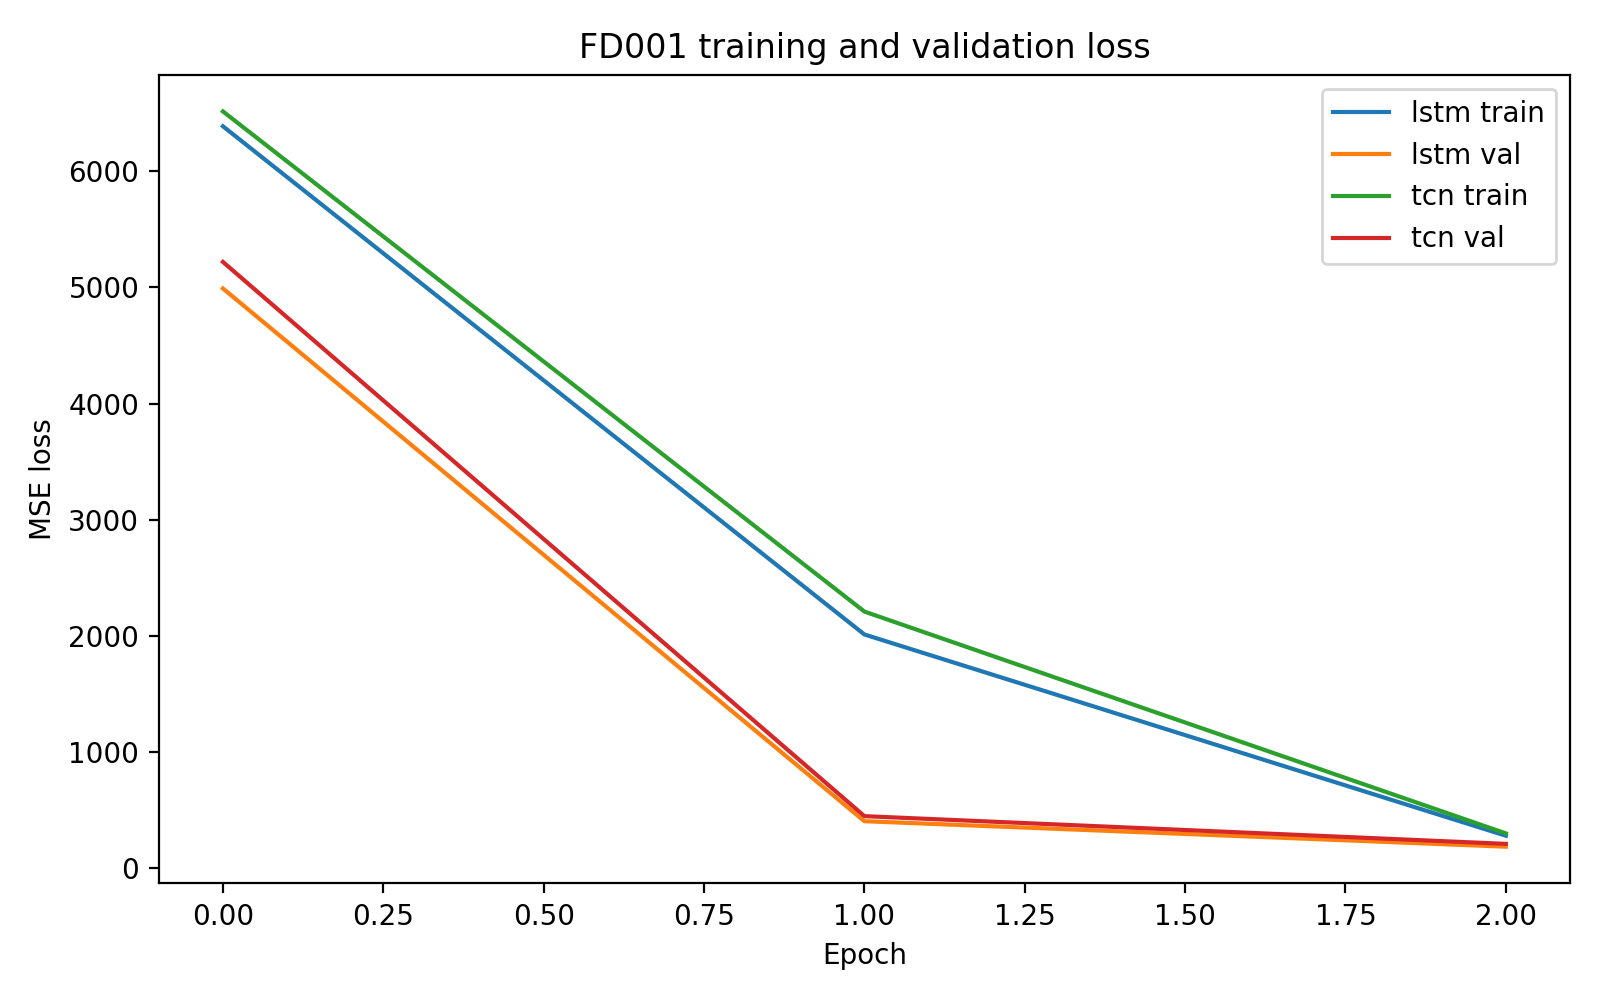
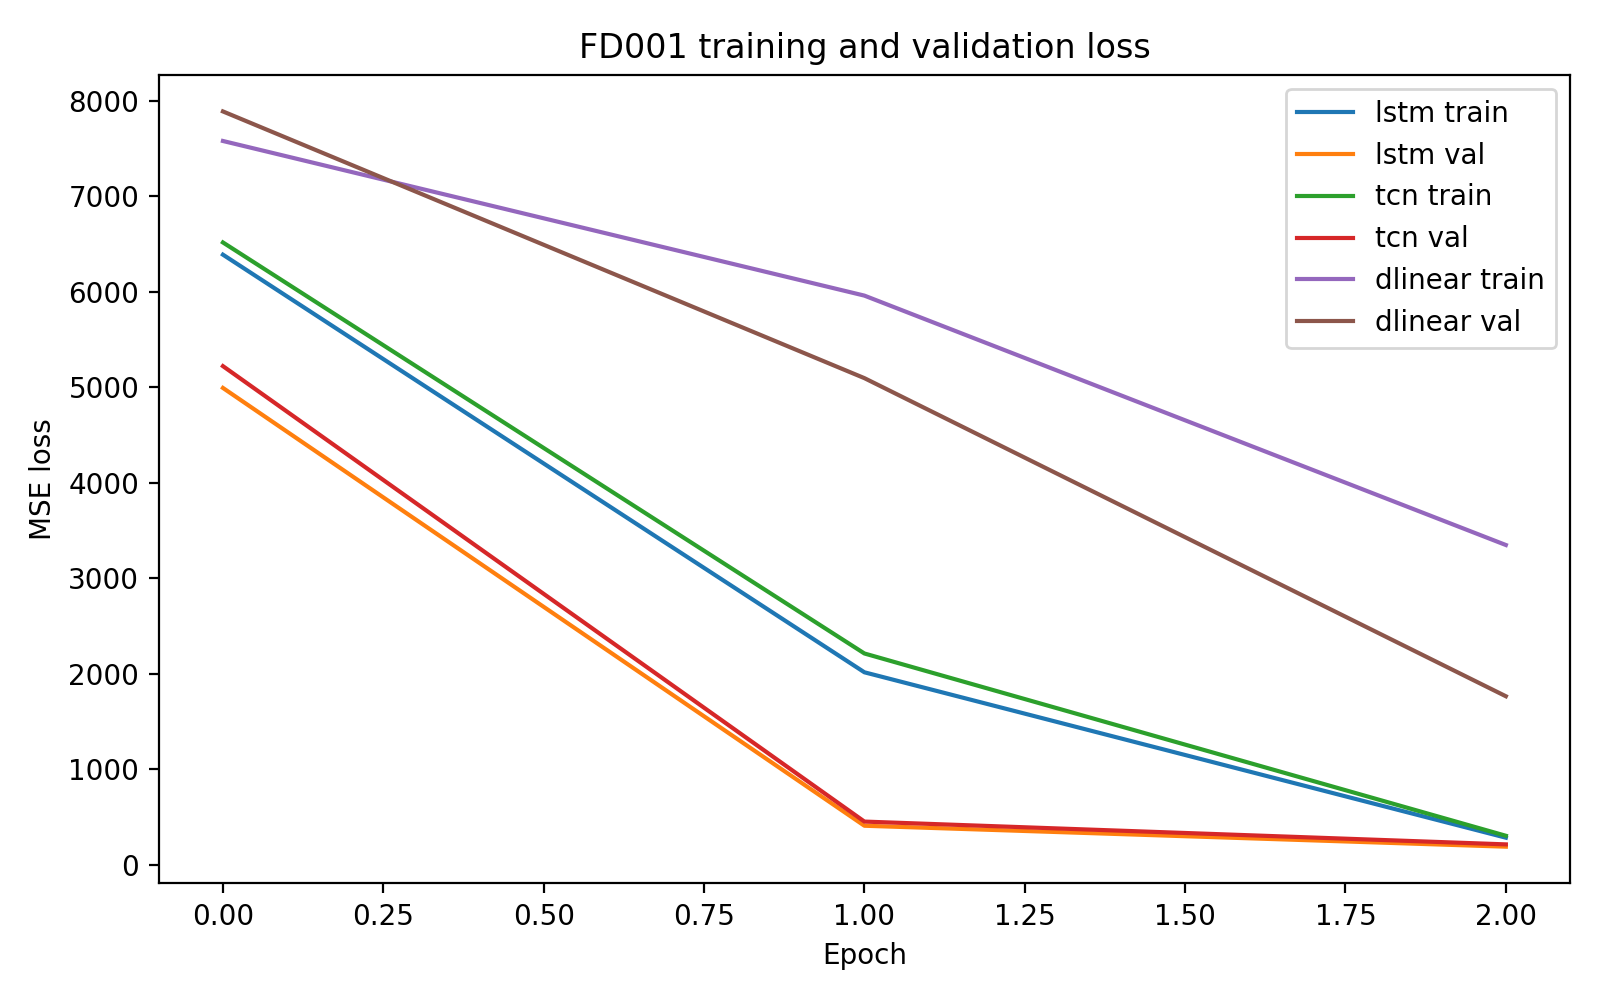
Add DLinear RUL variant

diff --git a/src/train.py b/src/train.py
@@ -16,7 +16,7 @@ from torch import nn
 from torch.utils.data import DataLoader
 
 from data import load_fd001
-from models import LSTMRegressor, TCNRegressor
+from models import DLinearRegressor, LSTMRegressor, TCNRegressor
 
 
 def set_seed(seed: int) -> None:
@@ -77,11 +77,13 @@ def evaluate(model, loader, criterion, device) -> tuple[float, np.ndarray, np.nd
     return float(np.mean(losses)), y_true, y_pred
 
 
-def build_model(name: str, input_dim: int) -> nn.Module:
+def build_model(name: str, input_dim: int, window_size: int) -> nn.Module:
     if name == "lstm":
         return LSTMRegressor(input_dim=input_dim, hidden_dim=64, num_layers=1)
     if name == "tcn":
         return TCNRegressor(input_dim=input_dim, channels=(32, 32, 64), kernel_size=3, dropout=0.1)
+    if name == "dlinear":
+        return DLinearRegressor(input_dim=input_dim, window_size=window_size, moving_avg=7)
     raise ValueError(f"Unknown model: {name}")
 
 
@@ -119,7 +121,7 @@ def train_one_model(name: str, datasets, args, device: torch.device):
     val_loader = DataLoader(datasets.val_dataset, batch_size=args.batch_size, shuffle=False)
     test_loader = DataLoader(datasets.test_dataset, batch_size=args.batch_size, shuffle=False)
 
-    model = build_model(name, datasets.feature_dim).to(device)
+    model = build_model(name, datasets.feature_dim, args.window_size).to(device)
     optimizer = torch.optim.Adam(model.parameters(), lr=args.lr, weight_decay=args.weight_decay)
     criterion = nn.MSELoss()
 
@@ -163,7 +165,7 @@ def train_one_model(name: str, datasets, args, device: torch.device):
 
 
 def main() -> None:
-    parser = argparse.ArgumentParser(description="Train LSTM baseline and TCN variant on NASA C-MAPSS FD001.")
+    parser = argparse.ArgumentParser(description="Train LSTM baseline and variants on NASA C-MAPSS FD001.")
     parser.add_argument("--data-dir", type=Path, default=Path("data/raw"))
     parser.add_argument("--output-dir", type=Path, default=Path("outputs"))
     parser.add_argument("--epochs", type=int, default=20)
@@ -172,6 +174,13 @@ def main() -> None:
     parser.add_argument("--lr", type=float, default=1e-3)
     parser.add_argument("--weight-decay", type=float, default=1e-5)
     parser.add_argument("--seed", type=int, default=7)
+    parser.add_argument(
+        "--models",
+        nargs="+",
+        default=["lstm", "tcn", "dlinear"],
+        choices=["lstm", "tcn", "dlinear"],
+        help="Models to train. Default trains the baseline plus two variants.",
+    )
     args = parser.parse_args()
 
     set_seed(args.seed)
@@ -185,7 +194,7 @@ def main() -> None:
 
     histories = {}
     metrics = []
-    for name in ["lstm", "tcn"]:
+    for name in args.models:
         history, model_metrics = train_one_model(name, datasets, args, device)
         histories[name] = history
         metrics.append(model_metrics)

diff --git a/src/models.py b/src/models.py
@@ -94,3 +94,41 @@ class TCNRegressor(nn.Module):
         x = x.transpose(1, 2)
         out = self.tcn(x)
         return self.head(out[:, :, -1])
+
+
+class MovingAverage(nn.Module):
+    def __init__(self, kernel_size: int):
+        super().__init__()
+        self.kernel_size = kernel_size
+        self.avg = nn.AvgPool1d(kernel_size=kernel_size, stride=1, padding=0)
+
+    def forward(self, x: torch.Tensor) -> torch.Tensor:
+        pad_left = (self.kernel_size - 1) // 2
+        pad_right = self.kernel_size - 1 - pad_left
+        front = x[:, :1, :].repeat(1, pad_left, 1)
+        end = x[:, -1:, :].repeat(1, pad_right, 1)
+        x_padded = torch.cat([front, x, end], dim=1)
+        return self.avg(x_padded.transpose(1, 2)).transpose(1, 2)
+
+
+class DLinearRegressor(nn.Module):
+    """DLinear-style decomposition model adapted for sequence-to-one RUL regression."""
+
+    def __init__(self, input_dim: int, window_size: int, moving_avg: int = 7):
+        super().__init__()
+        self.decomposition = MovingAverage(kernel_size=moving_avg)
+        self.seasonal_linear = nn.Linear(window_size, 1)
+        self.trend_linear = nn.Linear(window_size, 1)
+        self.head = nn.Sequential(
+            nn.LayerNorm(input_dim),
+            nn.Linear(input_dim, 32),
+            nn.ReLU(),
+            nn.Linear(32, 1),
+        )
+
+    def forward(self, x: torch.Tensor) -> torch.Tensor:
+        trend = self.decomposition(x)
+        seasonal = x - trend
+        seasonal_out = self.seasonal_linear(seasonal.transpose(1, 2)).squeeze(-1)
+        trend_out = self.trend_linear(trend.transpose(1, 2)).squeeze(-1)
+        return self.head(seasonal_out + trend_out)

diff --git a/README.md b/README.md
@@ -5,7 +5,8 @@ This is a small 24-788 mini-project experiment for one student:
 - Dataset: NASA C-MAPSS FD001 turbofan degradation data
 - Task: predict remaining useful life (RUL) from multivariate sensor time series
 - Baseline: LSTM
-- Variant: Temporal Convolutional Network (TCN)
+- Variant 1: Temporal Convolutional Network (TCN)
+- Variant 2: DLinear-style decomposed linear time-series model
 - Metrics: RMSE and PHM asymmetric score
 
 The official NASA page describes C-MAPSS as multivariate engine time series with train/test splits and true RUL labels for the test set. FD001 has 100 train trajectories, 100 test trajectories, one operating condition, and one fault mode.
@@ -17,7 +18,7 @@ cmapss_rul_project/
   data/raw/                 # CMAPSSData.zip and extracted FD001 files
   scripts/download_data.py  # optional data downloader
   src/data.py               # parsing, scaling, windowing
-  src/models.py             # LSTM and TCN models
+  src/models.py             # LSTM, TCN, and DLinear-style models
   src/train.py              # training, evaluation, plots, checkpoints
   outputs/                  # generated metrics, figures, checkpoints
   requirements.txt
@@ -64,6 +65,14 @@ Use 20-50 epochs for report-quality curves:
 python src/train.py --epochs 30 --window-size 30 --batch-size 128
 ```
 
+By default this trains the solo extra-credit scope: one baseline plus two model variants.
+You can also train a subset while debugging:
+
+```bash
+python src/train.py --epochs 3 --models dlinear
+python src/train.py --epochs 3 --models lstm tcn
+```
+
 Generated outputs:
 
 ```text
@@ -72,15 +81,17 @@ outputs/metrics.json
 outputs/figures/loss_curves.png
 outputs/figures/lstm_test_predictions.png
 outputs/figures/tcn_test_predictions.png
+outputs/figures/dlinear_test_predictions.png
 outputs/checkpoints/lstm_best.pt
 outputs/checkpoints/tcn_best.pt
+outputs/checkpoints/dlinear_best.pt
 ```
 
 Use `outputs/metrics.csv` for the main results table and `outputs/figures/loss_curves.png` as the required training curve figure.
 
 ## Suggested Report Claim
 
-The LSTM baseline models temporal degradation recursively through hidden states, while the TCN variant uses dilated causal convolutions to capture temporal context with more parallel computation. The experiment tests whether convolutional temporal modeling can match or improve RUL prediction on FD001 while training efficiently.
+The LSTM baseline models temporal degradation recursively through hidden states. The TCN variant uses dilated causal convolutions to capture temporal context with more parallel computation. The DLinear-style variant decomposes the sensor window into trend and residual components, then uses simple linear projections before a small regression head. The experiment tests whether convolutional temporal modeling or decomposition-based linear modeling can match or improve RUL prediction on FD001 while training efficiently.
 
 ## Citation Notes
 
@@ -91,3 +102,7 @@ Saxena, A., Goebel, K., Simon, D., and Eklund, N. "Damage Propagation Modeling f
 For the TCN variant, cite:
 
 Bai, S., Kolter, J. Z., and Koltun, V. "An Empirical Evaluation of Generic Convolutional and Recurrent Networks for Sequence Modeling." 2018.
+
+For the DLinear-style variant, cite:
+
+Zeng, A., Chen, M., Zhang, L., and Xu, Q. "Are Transformers Effective for Time Series Forecasting?" Proceedings of the AAAI Conference on Artificial Intelligence, 2023.
